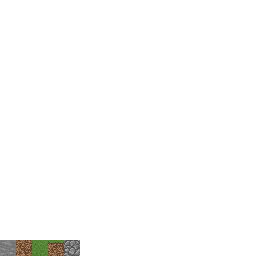
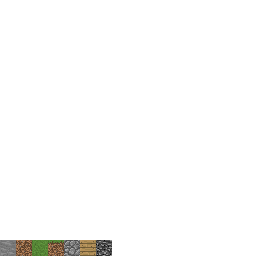
Add more blocks, change a few textures

Changed region(s): [[0.3125, 0.9375, 0.4375, 1.0], [0.0625, 0.9375, 0.125, 1.0], [0.2188, 0.9375, 0.25, 0.9688]]

diff --git a/src/player.cpp b/src/player.cpp
@@ -57,14 +57,14 @@ void Player::Update(ChunkManager *chunkMan)
 	if (inputMan->mouseState & IN_WHEEL_UP)
 	{
 		selectedBlockType = blocktype_t(selectedBlockType + 1);
-		if (selectedBlockType > blocktype_t::COBBLE)
-			selectedBlockType = blocktype_t::STONE;
+		if (selectedBlockType > blocktype_t::PLANKS)
+			selectedBlockType = blocktype_t::PLANKS;
 	}
 	else if (inputMan->mouseState & IN_WHEEL_DOWN)
 	{
 		selectedBlockType = blocktype_t(selectedBlockType - 1);
 		if (selectedBlockType <= blocktype_t::AIR)
-			selectedBlockType = blocktype_t::COBBLE;
+			selectedBlockType = blocktype_t::PLANKS;
 	}
 }
 

diff --git a/src/rendering/blocktexture.cpp b/src/rendering/blocktexture.cpp
@@ -31,5 +31,11 @@ BlockTexture GetDefaultBlockTextureSide(blocktype_t type, Direction side)
 		case COBBLE:
 			return {4,0, 1,1};
 		break;
+		case PLANKS:
+			return {5,0, 1,1};
+		break;
+		case BEDROCK:
+			return {6,0, 1,1};
+		break;
 	}
 }

diff --git a/src/world/blockdef.h b/src/world/blockdef.h
@@ -3,9 +3,11 @@
 #pragma once
 
 enum blocktype_t {
-	AIR = 0,
-	STONE = 1,
-	DIRT = 2,
-	GRASS = 3,
-	COBBLE = 4
+	AIR      = 0,
+	STONE    = 1,
+	DIRT     = 2,
+	GRASS    = 3,
+	COBBLE   = 4,
+	PLANKS   = 5,
+	BEDROCK  = 6
 };
